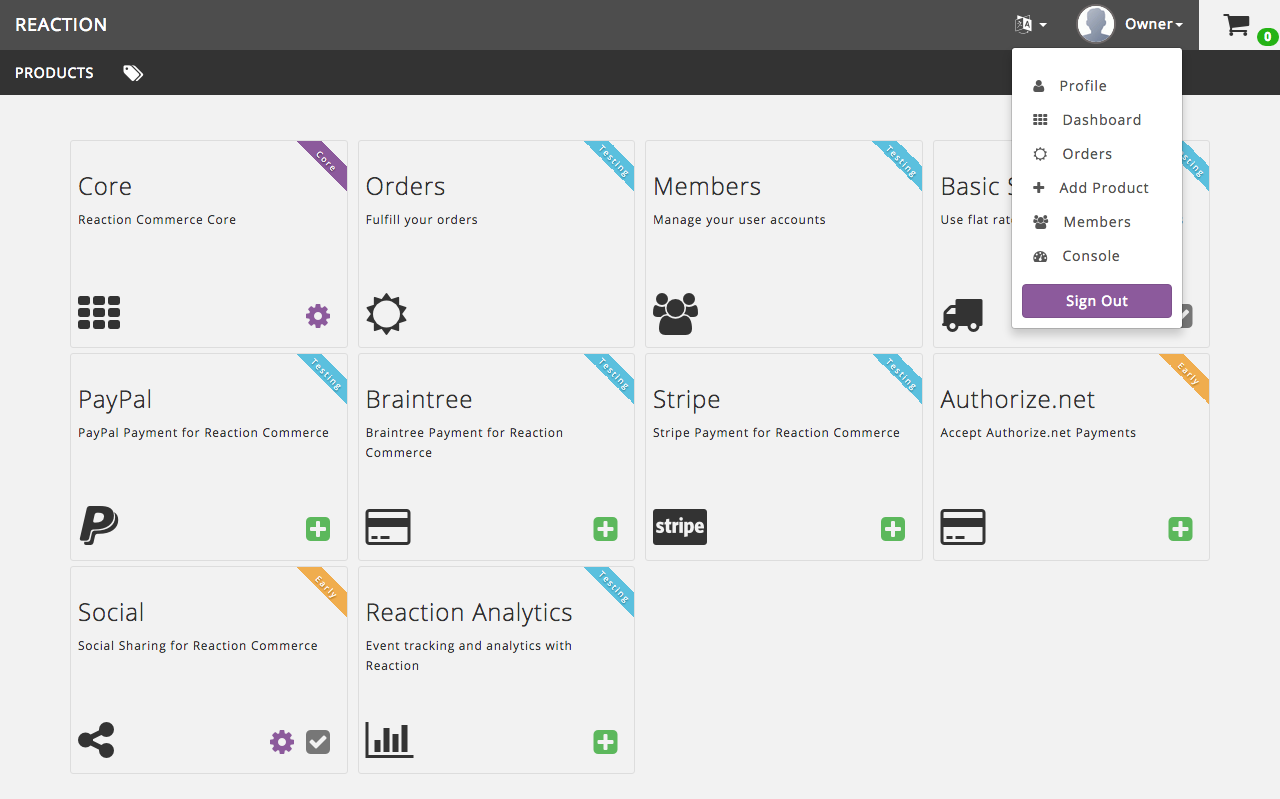
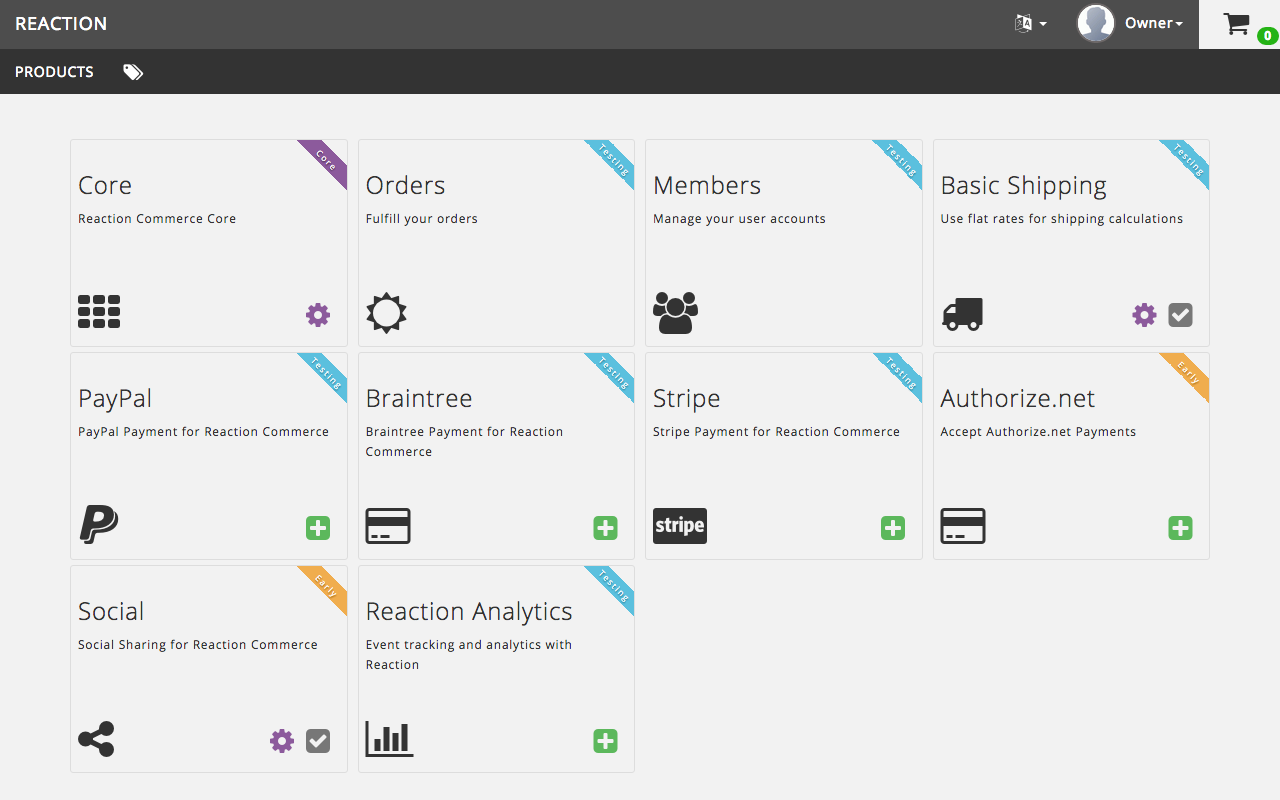
more doc editing

diff --git a/docs/dashboard.md b/docs/dashboard.md
@@ -1,22 +1,39 @@
 ##Dashboard
 
-The Dashboard is the brain center for your shop: The place where you can access your shop's Core settings, manage Orders, view and install apps, manage shop Members, and otherwise oversee your shop. To access your Dashboard you must be logged in. Click on your avatar in the upper right corner of the page, and a window will open where you can choose to view the Dashboard.
+The Dashboard is the brain center for your shop: The place where you can access your shop's Core settings, manage Orders, view and install apps, manage shop Members, and otherwise oversee your shop. To access your Dashboard you must be logged in. Click on your avatar in the upper right corner of the page, from the dropdown menu select Dashboard.
+
+![](http://raw.github.com/ongoworks/reaction/master/docs/assets/guide-admin-navigation-dropdown-dashboard.png "Reaction Commerce Dashboard")
+
+
+Once on the Dashboard page, you will see a selection of apps/packages available for your shop:
 
 ![](http://raw.github.com/ongoworks/reaction/master/docs/assets/guide-dashboard.png "Reaction Commerce Dashboard")
 
+
 ###Core
 
-Core is where you can view and modify your shop settings. Click the purple cog wheel icon next to it to access your Shop Settings screen. The General tab will open, and you can change your Shop Name,  Email address.  Description, and Keywords. Under the Address tab you will need to fill out your company information. The Mail tab lets you configure email for your shop. Localization sets the default location and currency. Options is where you can enable or disable Guest Checkout.
+Core is where you can view and modify your global shop settings. Click the cog wheel icon next to it to access your Shop Settings screen. 
+
+ * General: Edit your shop's Name,  Email, Description and Keywords. 
+ * Address:  Enter your Company address, default shipping and billing address.
+ * Mail: Configure email for your shop. 
+ * Localization: Set the default Timezone, Currency, Locale, and Base Unit of Measure.  
+ * Options: Enable or disable Guest Checkout.
+
+###Orders
+
+The Orders page is found by clicking the Orders card on your Dashboard. This is where you can view and process your orders. Learn more about [Orders](https://reactioncommerce.com/docs/master/orders).
 
 ###Members
 
 The Members app is where you can give your staff members access to administer your Reaction site.
 
-###Apps
+###Basic Shipping
 
-From the Dashboard, you can also view and configure apps such as PayPal, Google Analytics, and other packages. Most individual app card have its own cog wheel icon to view and change your settings. To install an app, click the plus icon; to uninstall an app, click the checkmark icon.
+The Basic Shipping app is for adding and editing flat rate shipping rules for your shop. Learn more about [Basic Shipping](https://reactioncommerce.com/docs/master/shipping).
+
+###Other Apps
+
+From the Dashboard, you can also view and configure apps such as PayPal, Google Analytics, and other apps/packages. Most individual app cards have their own plus icon to enable or disable the app. To install an app, click the plus icon; to uninstall an app, click the checkmark icon. Once enabled, click the cog wheel icon to view and change your settings. 
 
 
-###Orders
-
-The Orders page is found by clicking the Orders card on your Dashboard. This is where you can view and process your orders.

diff --git a/docs/index.md b/docs/index.md
@@ -12,6 +12,6 @@ This documentation provides an overview of the features of Reaction, and it will
 
 This documentation is part of the project pages, which you can browse at [GitHub](http://github.com/reactioncommerce/).
 
-Documentation includes existing features, marked with a Reaction release version number, but also describes features that are under development. If the feature is under development, there will be an associated link to an issue page on GitHub. You are encouraged to contribute ideas, feedback and questions on the [issues page](https://github.com/ongoworks/reaction/issues?state=open). For general discussion and support, check out our [chat room](gitter.im/reactioncommerce/reaction).
+You are encouraged to contribute ideas, feedback and questions on the [issues page](https://github.com/ongoworks/reaction/issues?state=open). For general discussion and support, check out our [chat room](gitter.im/reactioncommerce/reaction).
 
 Reaction is created by the [Ongo Works team](http://ongoworks.com) in Los Angeles, CA.

diff --git a/docs/payment.md b/docs/payment.md
@@ -2,7 +2,12 @@
 
 ##Payment Apps
 
-To enable a payment provider for your shop, login as a shop admin and navigate to your Dashboard. From the Dashboard, locate the payment package you want to enable. Click the green plus icon to turn on particular payment package, then click the cog icon to enter your settings.
+To enable a payment provider for your shop, login as a shop admin and navigate to your Dashboard. 
+
+![](http://raw.github.com/ongoworks/reaction/master/docs/assets/guide-admin-navigation-dropdown-dashboard.png "Reaction Commerce Dashboard")
+
+
+From the Dashboard, locate the payment package you want to enable. Click the green plus icon to turn on particular payment package, then click the cog icon to enter your settings.
 
 Reaction supports the following payment packages:
 

diff --git a/docs/packages.md b/docs/packages.md
@@ -2,7 +2,7 @@
 
 Reaction apps are the heart of Reaction. You can increase the power of your shop by adding and configuring additional Reaction apps.
 
-To access the apps and packages available in your shop, login as an admin, navigate to your Dashboard.
+To access the apps and packages available in your shop, login as an admin, navigate to your Dashboard. From the Dashboard page, you can enable an app by clicking on the plus icon.
 
 ![](http://raw.github.com/ongoworks/reaction/master/docs/assets/guide-dashboard.png "Reaction Commerce Dashboard")
 

diff --git a/docs/features.md b/docs/features.md
@@ -26,16 +26,6 @@ Our [Features page](https://reactioncommerce.com/features) highlights many of th
 
 ## Accounts
 * Social authentication and account creation methods built in, using Meteor packages
-	* Facebook
-	* Twitter
-	* Google
-	* Google+
-	* LinkedIn
-	* Vkontakte
-	* Yahoo
-	* Stripe
-	* Salesforce
-	* and more...
 * Administrator role/package based invitation access
 
 ## Cart and Checkout
